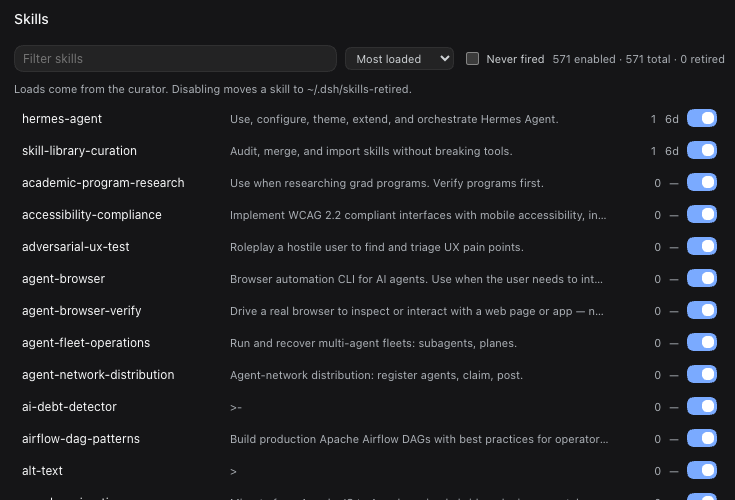
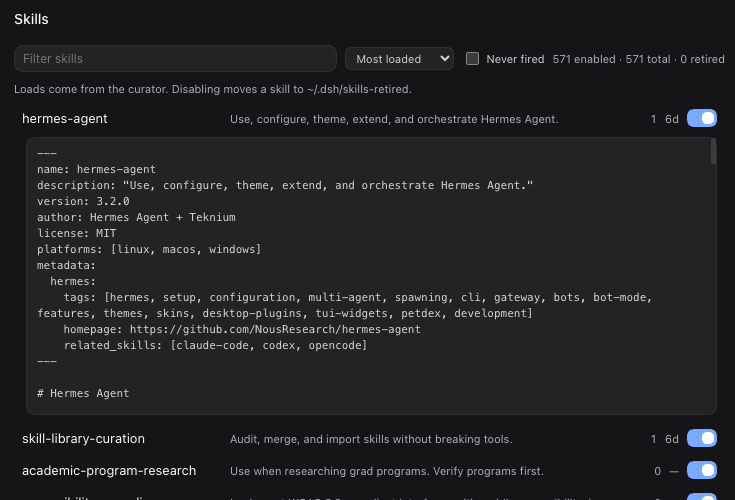
Skills: inline skill body preview

diff --git a/packages/toolbox/client.js b/packages/toolbox/client.js
@@ -69,6 +69,7 @@ window.__ModuleLoader__.load({
 .tbx-empty{padding:14px;color:var(--dsw-alias-label-tertiary);font-size:12px}
 .tbx-note{color:var(--dsw-alias-label-tertiary);font-size:11px;margin:4px 0 8px}
 .tbx-error{color:var(--dsw-alias-state-error-primary);font-size:12px;padding:6px 0}
+.tbx-preview{margin:2px 8px 6px 12px;padding:8px 10px;border:1px solid var(--dsw-alias-border-l1);border-radius:var(--dsw-radius-md);background:var(--dsw-alias-bg-layer-1);color:var(--dsw-alias-label-secondary);font-family:ui-monospace,SFMono-Regular,Menlo,monospace;font-size:11px;line-height:16px;white-space:pre-wrap;word-break:break-word;max-height:260px;overflow:auto}
 .tbx-dot{display:inline-block;width:7px;height:7px;border-radius:50%;background:var(--dsw-alias-label-caption);margin-right:6px;vertical-align:middle}
 .tbx-dotOn{background:var(--dsw-alias-state-success-primary,var(--dsw-alias-state-business-primary))}
 .tbx-sort{border:1px solid var(--dsw-alias-border-l1);border-radius:var(--dsw-radius-sm);background:var(--dsw-alias-bg-layer-1);color:var(--dsw-alias-label-secondary);font:inherit;font-size:11px;padding:3px 6px}
@@ -126,9 +127,19 @@ window.__ModuleLoader__.load({
       const [sort, setSort] = useState('loads')
       const [neverFired, setNeverFired] = useState(false)
       const [busy, setBusy] = useState(null)
+      const [preview, setPreview] = useState(null)
       const load = useCallback(() => {
         fetchJson('/api/toolbox/skills').then(setData).catch((e) => setError(e.message))
       }, [])
+      const togglePreview = async (row) => {
+        if (preview !== null && preview.dir === row.dir) return setPreview(null)
+        try {
+          const body = await fetchJson(`/api/toolbox/skill?dir=${encodeURIComponent(row.dir)}`)
+          setPreview({ dir: row.dir, text: body.text })
+        } catch (e) {
+          setError(e.message)
+        }
+      }
       useEffect(load, [load])
 
       const rows = useMemo(() => {
@@ -198,14 +209,28 @@ window.__ModuleLoader__.load({
           'div',
           { className: 'tbx-list' },
           rows.map((row) => h(
-            'div',
-            { className: 'tbx-row' + (row.enabled ? '' : ' tbx-rowOff'), key: row.dir },
-            h('span', { className: 'tbx-name', title: row.name }, row.name),
-            row.copies > 1 ? h('span', { className: 'tbx-copies', title: t('skills.duplicates', { count: row.copies }) }, `×${row.copies}`) : null,
-            h('span', { className: 'tbx-desc', title: row.description }, row.description),
-            h('span', { className: 'tbx-load', title: t('skills.loads') }, String(row.loads)),
-            h('span', { className: 'tbx-muted' }, ago(row.lastSeen)),
-            h(Switch, { checked: row.enabled, label: t('skills.toggle', { name: row.name }), onChange: () => toggle(row) }),
+            React.Fragment,
+            { key: row.dir },
+            h(
+              'div',
+              { className: 'tbx-row' + (row.enabled ? '' : ' tbx-rowOff') },
+              h('button', {
+                type: 'button',
+                className: 'tbx-name',
+                style: { background: 'none', border: 'none', padding: 0, textAlign: 'left', cursor: 'pointer', color: 'inherit', font: 'inherit' },
+                title: t('skills.preview'),
+                'aria-expanded': preview !== null && preview.dir === row.dir,
+                onClick: () => void togglePreview(row),
+              }, row.name),
+              row.copies > 1 ? h('span', { className: 'tbx-copies', title: t('skills.duplicates', { count: row.copies }) }, `×${row.copies}`) : null,
+              h('span', { className: 'tbx-desc', title: row.description }, row.description),
+              h('span', { className: 'tbx-load', title: t('skills.loads') }, String(row.loads)),
+              h('span', { className: 'tbx-muted' }, ago(row.lastSeen)),
+              h(Switch, { checked: row.enabled, label: t('skills.toggle', { name: row.name }), onChange: () => toggle(row) }),
+            ),
+            preview !== null && preview.dir === row.dir
+              ? h('pre', { className: 'tbx-preview' }, preview.text)
+              : null,
           )),
           rows.length === 0 && h('div', { className: 'tbx-empty' }, t('skills.empty')),
         ),
@@ -731,6 +756,7 @@ window.__ModuleLoader__.load({
       'skills.duplicates': '{count} copies share this name',
       'skills.toggle': 'Enable {name}',
       'skills.empty': 'No skills match.',
+      'skills.preview': 'Show the skill body',
       'providers.note': 'From the newest {scanned} session logs. Tokens are reported by the provider.',
       'providers.model': 'Model',
       'providers.messages': 'Messages',
@@ -799,6 +825,7 @@ window.__ModuleLoader__.load({
       'skills.duplicates': '{count} 个同名副本',
       'skills.toggle': '启用 {name}',
       'skills.empty': '没有匹配的技能。',
+      'skills.preview': '查看技能正文',
       'providers.note': '来自最新 {scanned} 个会话日志。token 由提供商上报。',
       'providers.model': '模型',
       'providers.messages': '消息',

diff --git a/packages/toolbox/index.js b/packages/toolbox/index.js
@@ -384,6 +384,19 @@ async function pingRoute(ctx, provider, model) {
   return { ok: true, firstChunkMs, totalMs: Date.now() - started, text: text.slice(0, 80) }
 }
 
+/** Read one skill body for the preview pane, from the active or retired tree. */
+async function skillBody(dir) {
+  for (const root of [SKILLS, RETIRED]) {
+    try {
+      const text = await fs.readFile(path.join(root, dir, 'SKILL.md'), 'utf8')
+      return { dir, text: text.length > 24_000 ? `${text.slice(0, 24_000)}\n\n…truncated` : text }
+    } catch {
+      /* try the other tree */
+    }
+  }
+  return null
+}
+
 /** Register the panel's routes for this plugin's lifetime. */
 export function apply(ctx) {
   ctx.tools.register(
@@ -485,6 +498,26 @@ export function apply(ctx) {
         },
       }),
     'toolbox: skill toggle route',
+  )
+
+  ctx.effect(
+    () =>
+      ctx.connection.fetch.register({
+        path: '/api/toolbox/skill',
+        methods: ['GET'],
+        requestBody: 'buffered',
+        fetch: async (request) => {
+          try {
+            const dir = new URL(request.url).searchParams.get('dir') || ''
+            if (dir === '' || dir.includes('/') || dir.includes('..')) return json({ error: 'bad dir' }, 400)
+            const body = await skillBody(dir)
+            return body === null ? json({ error: 'skill not found' }, 404) : json(body)
+          } catch (error) {
+            return failure(error)
+          }
+        },
+      }),
+    'toolbox: skill body route',
   )
 
   ctx.effect(

diff --git a/packages/toolbox/README.md b/packages/toolbox/README.md
@@ -2,7 +2,7 @@
 
 A Toolbox package for DeepSeek Harness that registers four separate sidebar panels: Skills, Providers, Kanban, and Command Center.
 
-- **Skills** — every skill in `~/.dsh/skills` plus the retired set in `~/.dsh/skills-retired`, with the curator's load count and last-seen time, sortable by loads/recent/name, a "never fired" filter, duplicate-name badges, and a switch that moves a skill between the two directories. Disabling is a directory move, because a leading dot does not hide a skill from DSH's catalogue.
+- **Skills** — every skill in `~/.dsh/skills` plus the retired set in `~/.dsh/skills-retired`, with the curator's load count and last-seen time, sortable by loads/recent/name, a "never fired" filter, duplicate-name badges, an inline preview of the skill body (`GET /skill?dir=`), and a switch that moves a skill between the two directories. Disabling is a directory move, because a leading dot does not hide a skill from DSH's catalogue.
 - **Providers** — per provider/model totals read from the newest 40 session logs (concatenated zstd JSONL): messages, input/output/cache tokens, mean response time, error count, last used. Cached for a minute on the Host. A **Test** button makes one timed one-token call through `ctx.llm` to that route and reports first-chunk and total time.
 - **Kanban** — a three-column board persisted at `~/.dsh/toolbox/board.json`: drag to any position, double-click to edit a card, add and remove. A Host `kanban` tool (`list` / `add` / `move` / `remove`) lets the agent read and change the same board.
 - **Command Center** — every durable session with status, model, message count, token total and last write, read from the session logs. **Open** calls `uiWorkspace.openSession`, **Message** sends `session/prompt` (`steer` for a running session, `queue` for an idle one), and active rows carry a **Stop** wired to `session/cancel`.
@@ -16,6 +16,7 @@ Host routes, all under `/api/toolbox/`:
 | `/providers` | GET | aggregated provider/model activity |
 | `/board` | GET/POST | read or replace the board |
 | `/sessions` | GET | session dashboard rows |
+| `/skill` | GET | one skill's SKILL.md body |
 | `/ping` | POST | one timed one-token call to a route |
 
 Install: see the kit [README](../../README.md).

diff --git a/README.md b/README.md
@@ -66,7 +66,7 @@ Four separate sidebar panels from one package.
 
 ![The three sidebar entries](docs/images/sidebar-entries.png)
 
-**Skills** — every skill with its curator load count and last-seen time, sortable by loads/recent/name, a "never fired" filter, duplicate-name badges, and a switch. Disabling moves the skill to `~/.dsh/skills-retired` and back, because a leading dot does not hide a skill from DSH's catalogue.
+**Skills** — every skill with its curator load count and last-seen time, sortable by loads/recent/name, a "never fired" filter, duplicate-name badges, an inline **preview** of the skill body, and a switch. Disabling moves the skill to `~/.dsh/skills-retired` and back, because a leading dot does not hide a skill from DSH's catalogue.
 
 ![Skills manager](docs/images/toolbox-skills.png)
 

diff --git a/TODO.md b/TODO.md
@@ -25,4 +25,5 @@
 - [x] Command Center Message (session/prompt steer/queue)
 - [x] `kanban` agent tool (list/add/move/remove)
 - [x] Provider Test button (one-token ping)
+- [x] Skill body preview in the Skills panel
 - [x] One-command installer and CLI kit (memory, checkpoints, curator, registry, skill audit)
